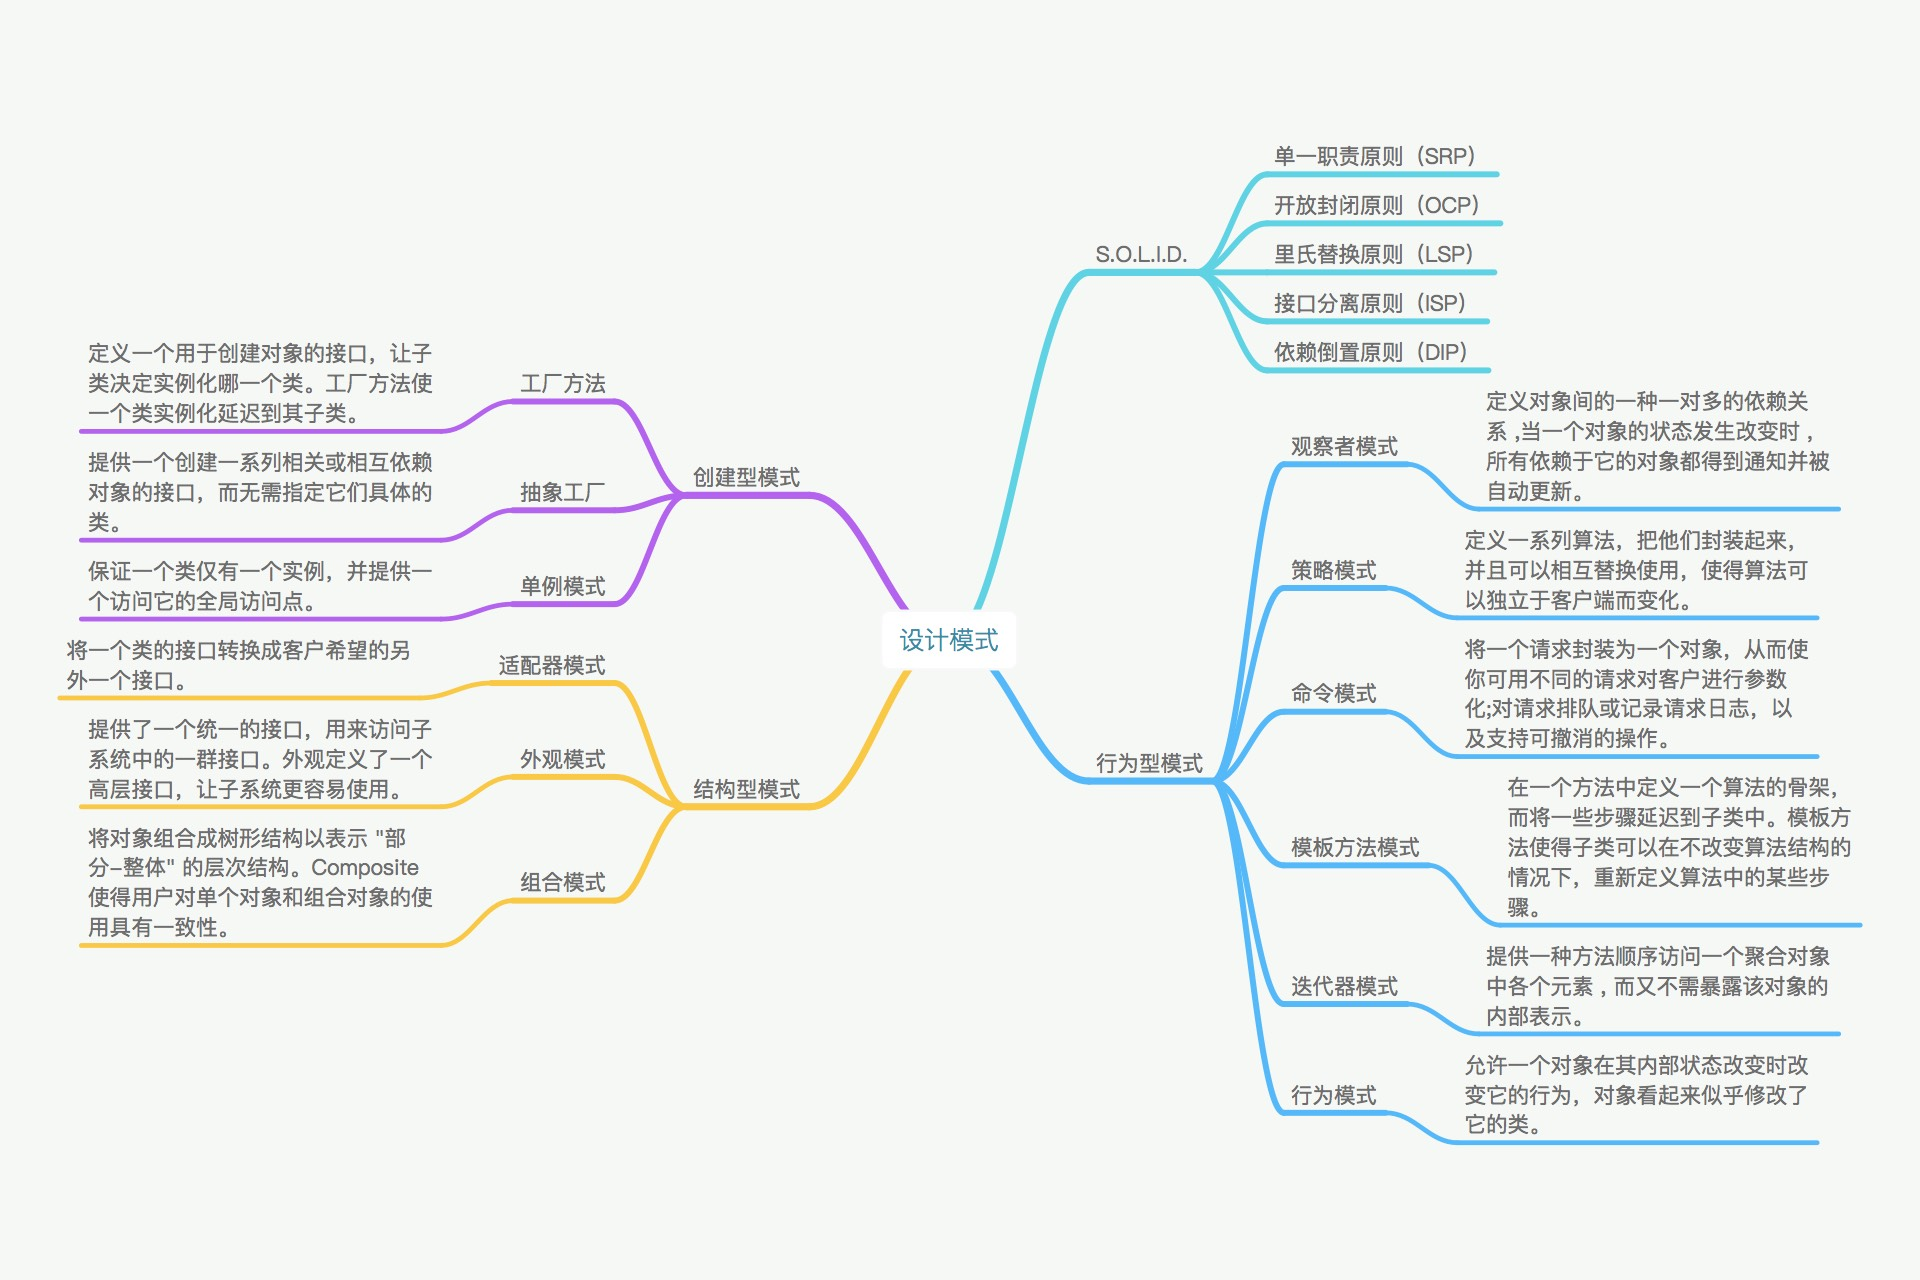
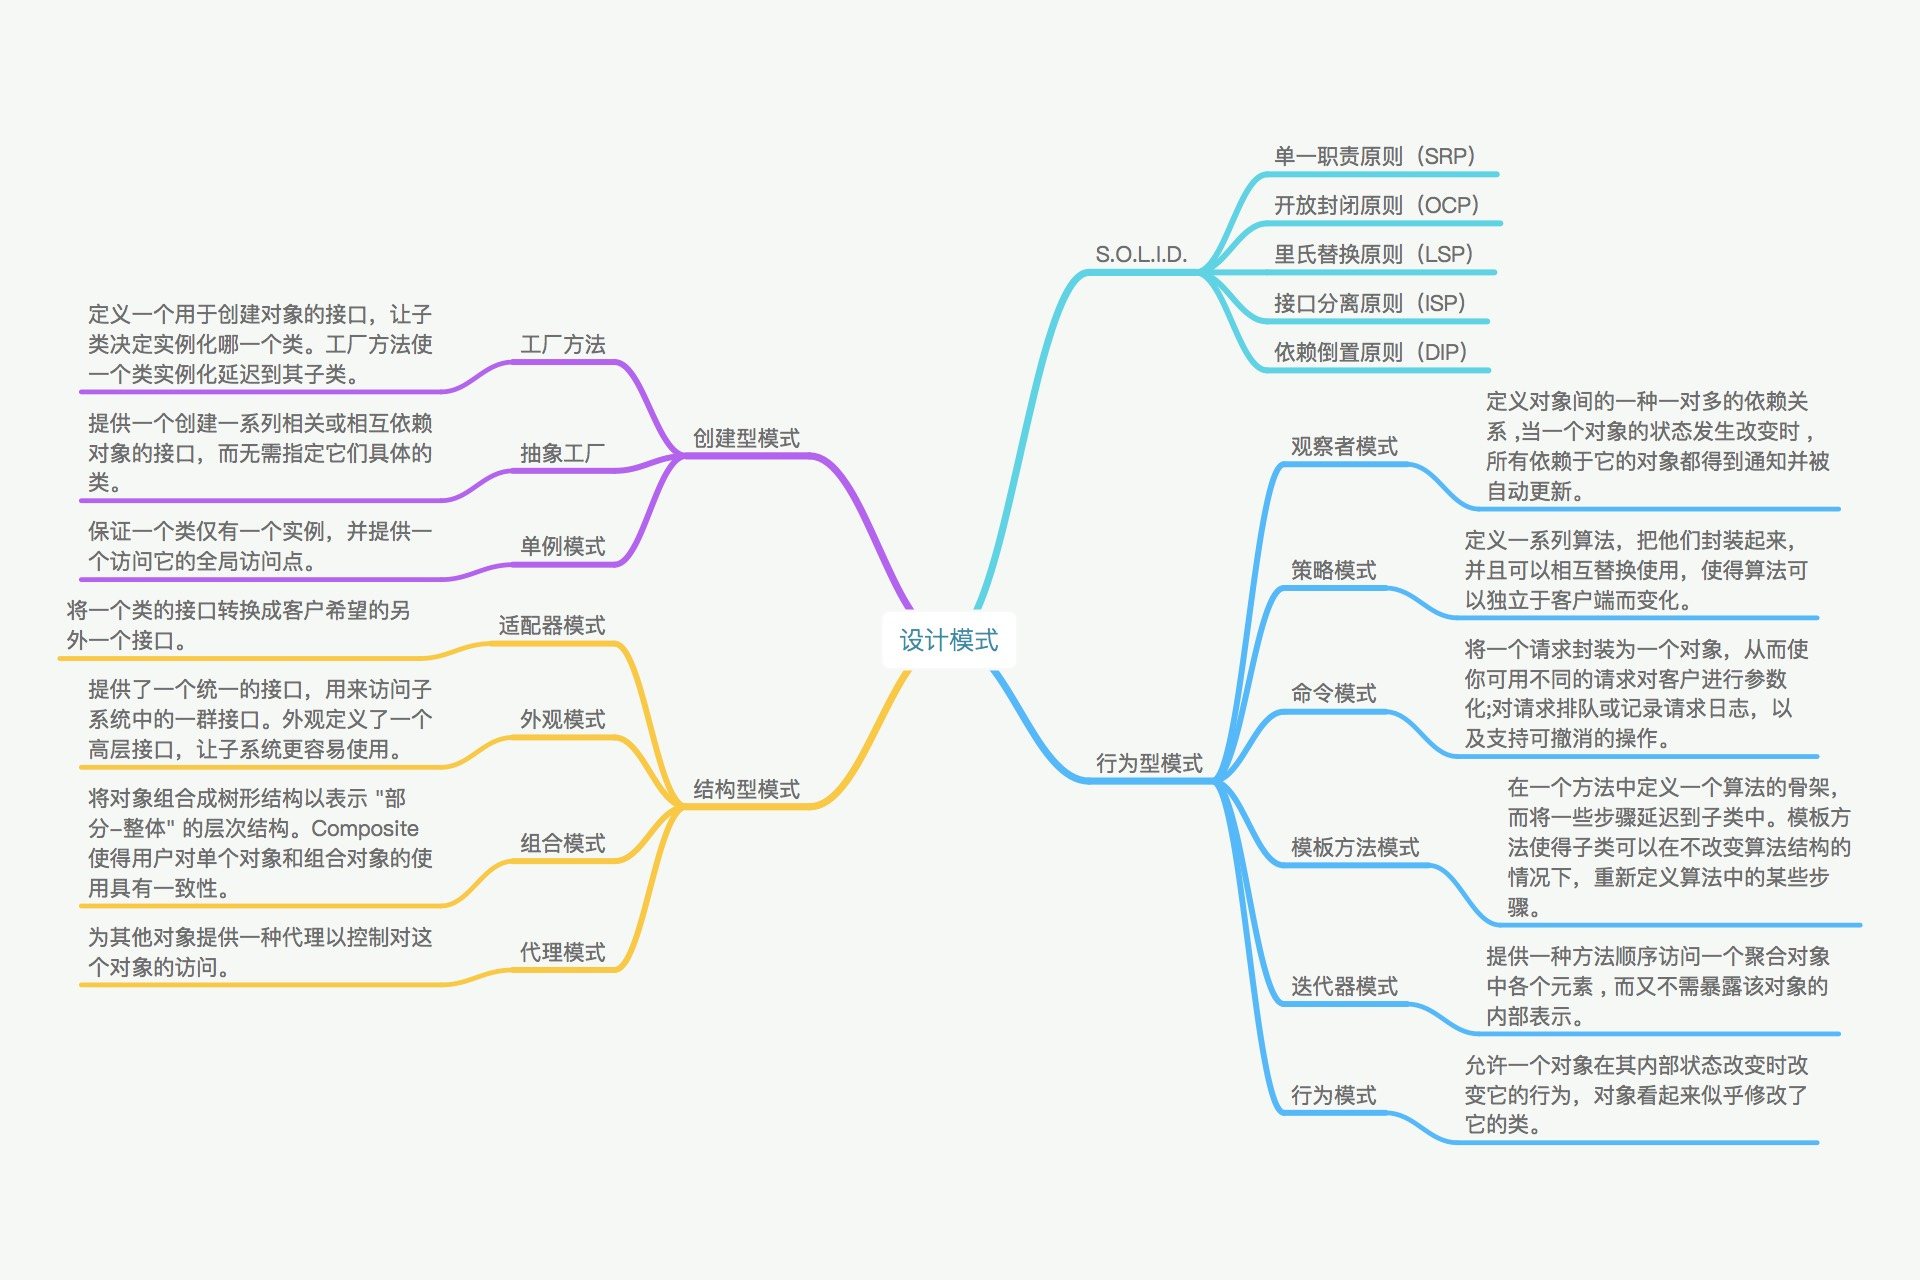
feat: proxy pattern
add readme
add mind map

Changed region(s): [[0.0312, 0.2188, 0.4688, 0.7812]]

diff --git a/structural/README.md b/structural/README.md
@@ -3,6 +3,7 @@
 - [适配器模式（Adapter）](#适配器模式)
 - [外观模式（Facade）](#外观模式)
 - [组合模式（Composite）](#组合模式)
+- [代理迷失（Proxy）](#代理模式)
 
 # 适配器模式
 
@@ -227,4 +228,25 @@ if __name__ == '__main__':
     menu.add(drink_menu)
 
     menu.printer()
+```
+
+## 代理模式
+
+### 定义
+
+为其他对象提供一种代理以控制对这个对象的访问。
+
+### 动机
+
+对属性和方法的访问控制。
+
+### 适用性
+
+- 远程代理（Remote Proxy）为一个对象在 不同的地址空间 提供局部代表。
+- 虚代理（Virtual Proxy）根据需要创建开销很大的对象。
+- 保护代理（Protection Proxy）控制对原始对象的访问。
+
+### 实现
+
+```python
 ```
